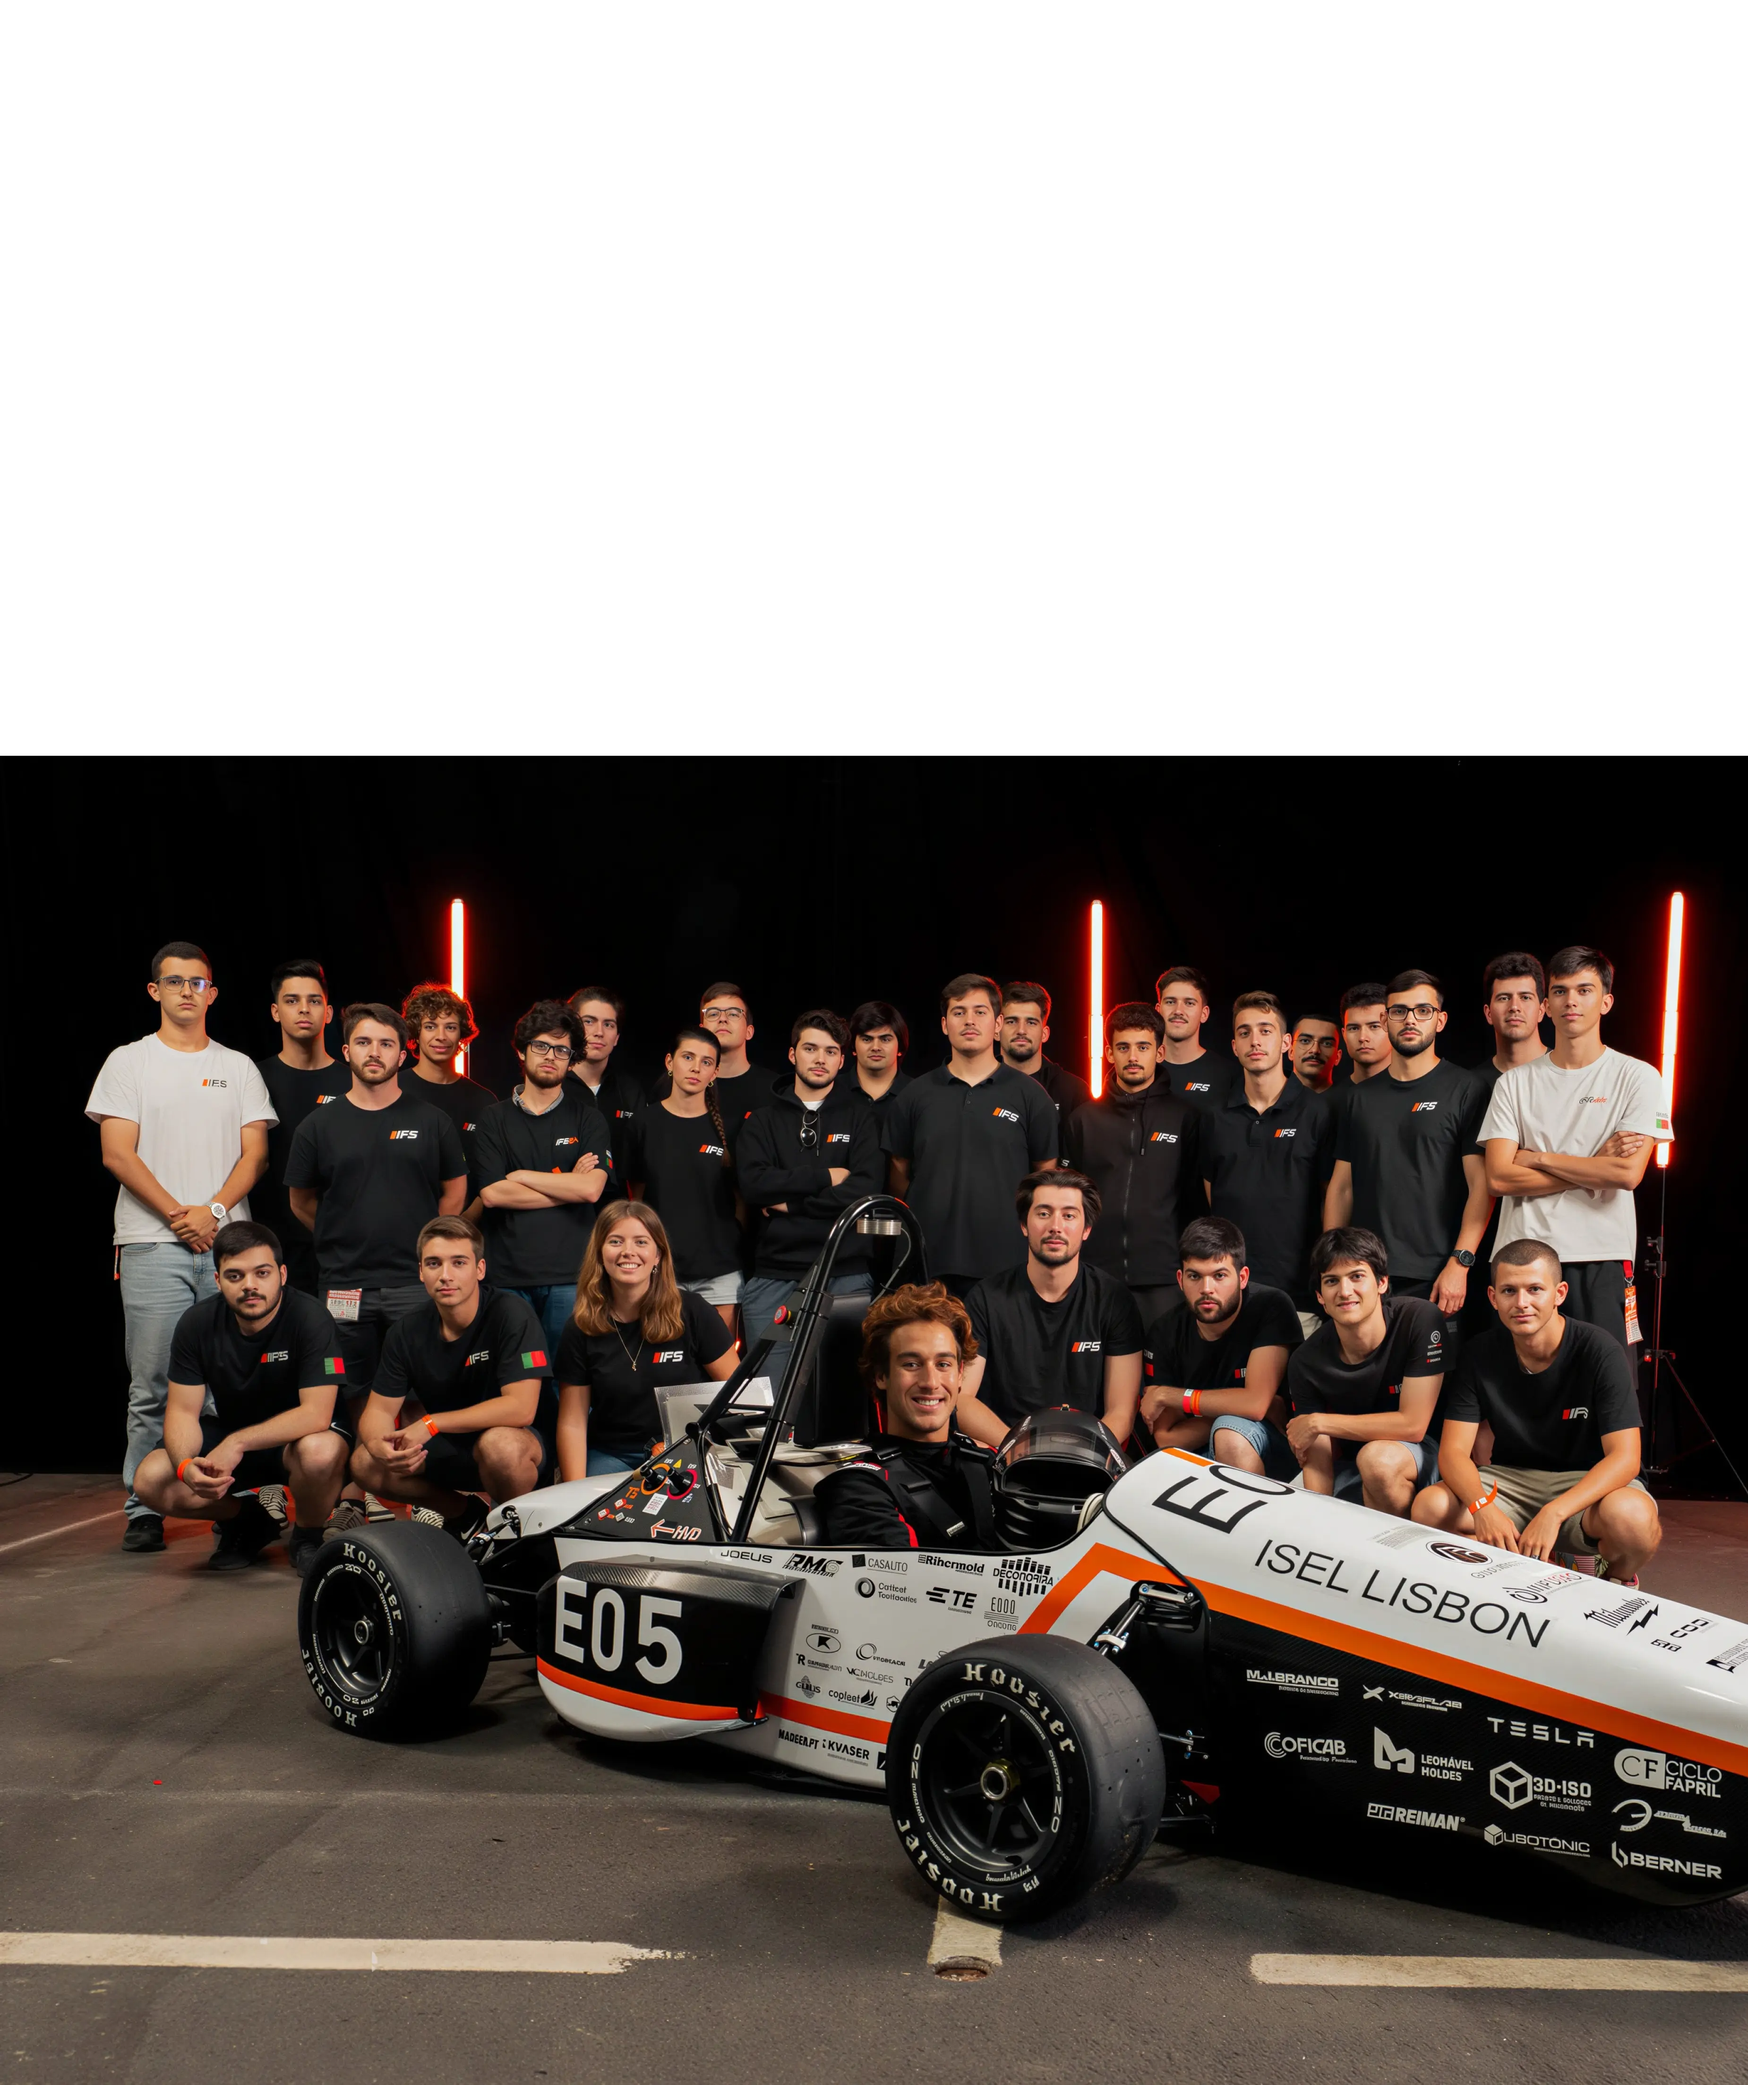
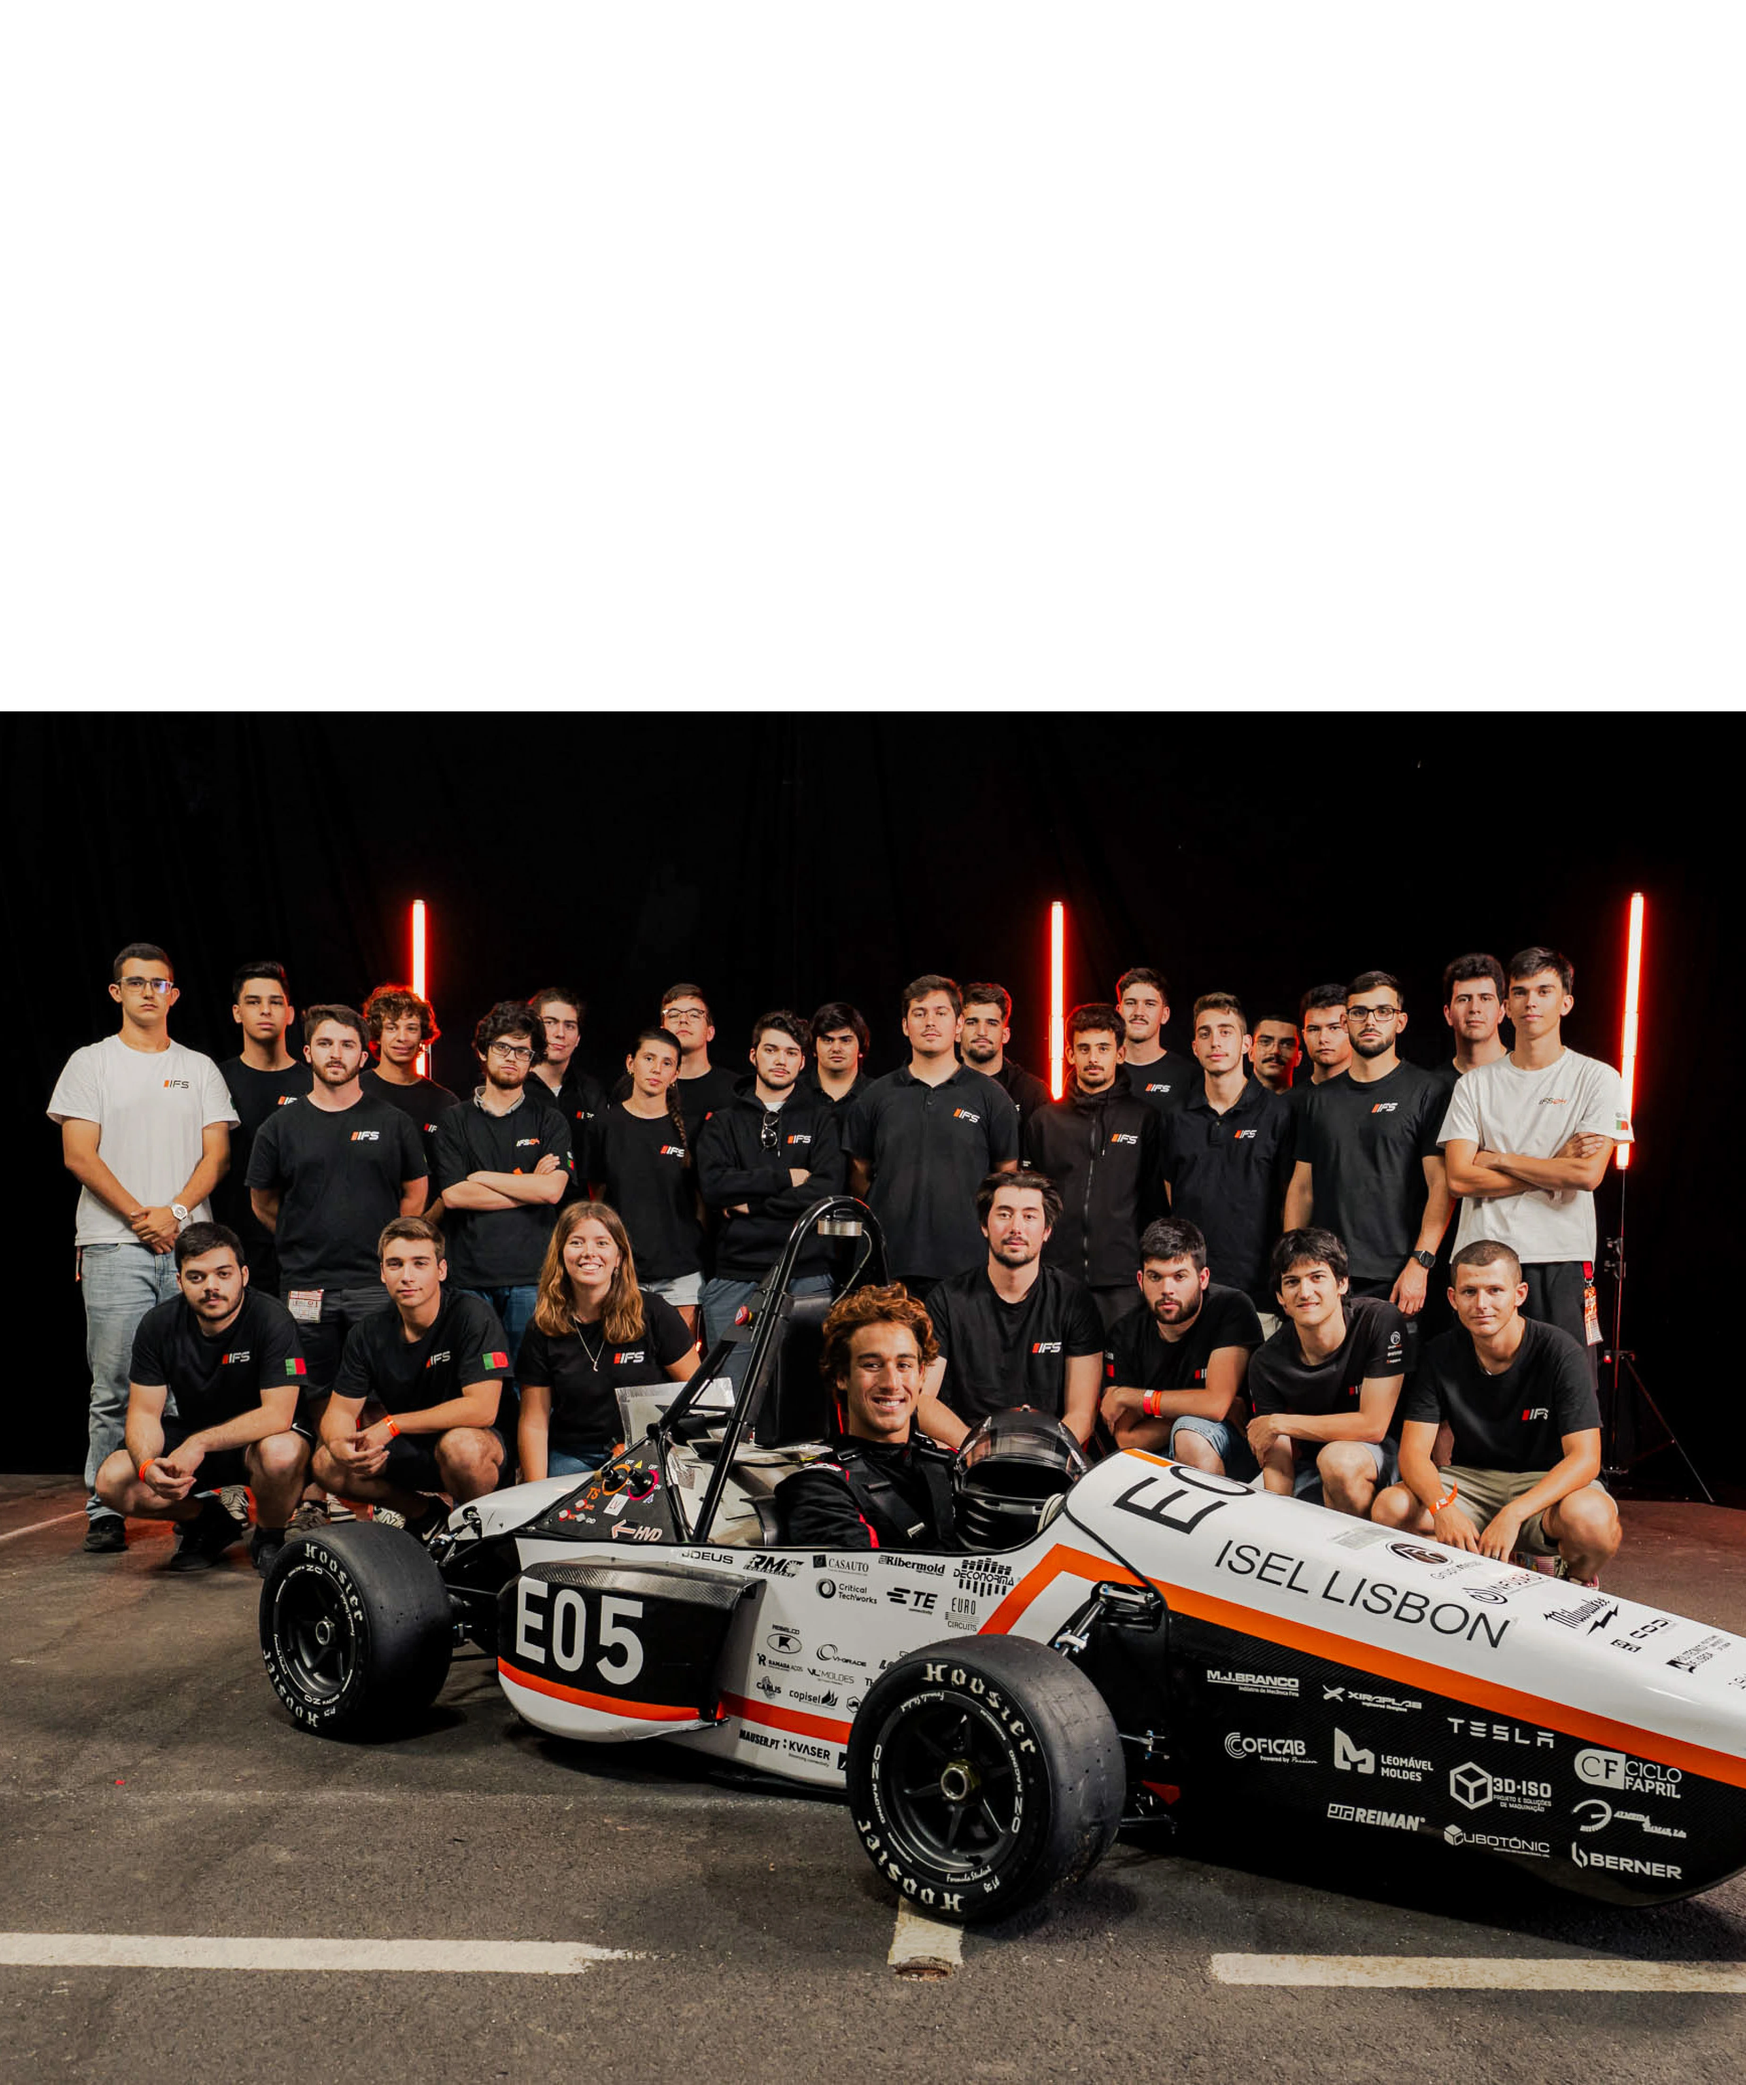
nem sponsor, + main page hero img fix

diff --git a/src/data/sponsors.js b/src/data/sponsors.js
@@ -340,6 +340,12 @@ export const sponsors =
       "image": "/sponsor_logos/Eplan.webp",
       "classes":"h-[5.5em]"
     },
+    {
+      "altName": "Kissoft",
+      "link": "https://www.kisssoft.com/en",
+      "image": "/sponsor_logos/kisssoft.webp",
+      "classes":"h-[5.5em]"
+    },
   ]
 }
     
